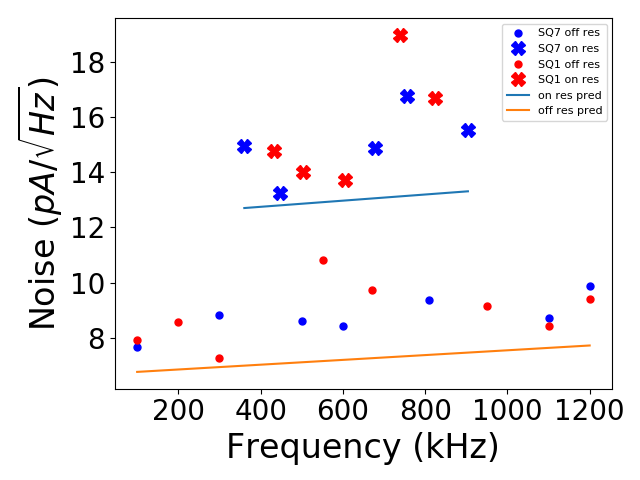
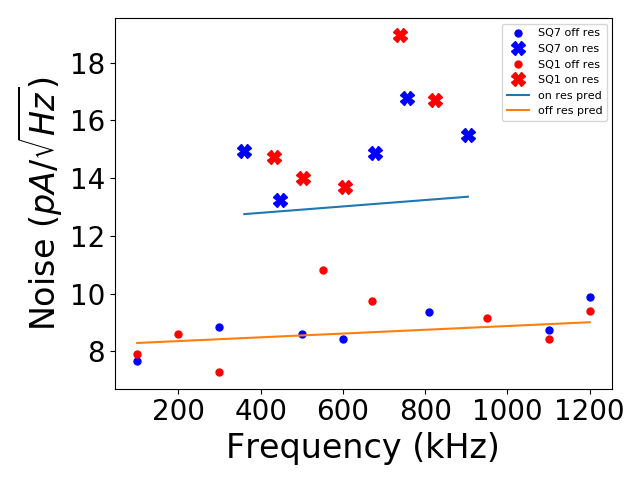
squid noise

diff --git a/characterization.tex b/characterization.tex
@@ -441,7 +441,7 @@ That is, we measured the warm electronic noise open loop (with the squids off), 
 
 With the \ac{SQUID}s off, we measured the open loop noise.
 %(no current bias, no flux bias, and no voltage offset) % no need to define off ... also, that's the voltage offset of ... the firs stage amplifier???
-This was a measure of the noise of the warm electronics up to the \ac{SQUID} controller first stage amplifier. 
+This was a measure of the noise of the warm electronics referred back to the input of the \ac{SQUID} controller first stage amplifier. 
 The theoretical open loop transfer function was 0.774 nV to 1 \ac{ADC} count. 
 The measured transfer function was a factor of 1.13 greater than the theoretical. 
 Figure~\ref{fig:dark_electronic_noise} is the measured open loop warm electronics noise for two \ac{SQUID}s in \ac{ETC} as a function of the demodulation frequency. 
@@ -485,23 +485,38 @@ The ampifier's feedback resistor value was known, typically $5~k\Omega$ or $10~k
 \begin{figure}[ht!]
 \begin{center}
 \includegraphics[height=2.5in]{figures/squid7_loopgain.png}
-\caption{We measured the \ac{SQUID} flux-locked loop gain. ???
+\caption{We measured the \ac{SQUID} flux-locked loop gain. we did voltage (?) open loop over voltage (?) at Rfeedback -1. as a function of frequency. ???
 \label{fig:squid_flux_locked_loopgain} }
 \end{center}
 \end{figure}
 
 \textcolor{red}{Include squid noise measured in EBEX at float in thesis? Later on in performance section? don't even mention here?}
+%\textcolor{red}{These predictions are from an era where the squid noise was 2.5 pA/rtHz. Later on in this 150-01 run is where we adjusted the prediction to measure the measurement and found the intrinsic squid noise was more like 4pA/rtHz (though franky used 3.5 pA/rtHz in the analysis code). So. You should: 
+%1. Include the plot of 2.5 and 4.0 pA/rtHz and explain why we changed the intrinsic noise "prediction" to match the measurement. 
+%2. Adjust the predictions of the squid noise to reflect this. Perhaps just remake them? but how do I know what the dfmux board settings were? find the date and hope the settings are there? or calculate the noise with 2.5 and subtract it (in quadrature) and add the noise with 4.0? }
+
+\textcolor{red}{Why is the on resonance noise higher than predicted? Do you want to find and include the 700mK squid noise data to say we don't know what's going on at 4.2~K, but meas/pred agree more at lower temperatures?}
 
 %The \ac{SQUID} noise could be measured, as was done in \ac{EBEX}, on a \ac{SQUID} not attached to a comb of bolometers (typically because of an open on one end of the microstrip) or it could be measured, as was done in \ac{ETC}, on a \ac{SQUID} with bolometers attached, but demodulating away from their resonant frequencies. 
-With the detectors at a temperature of 4.2~K and without providing carrier or nuller biases, we measured the noise of the warm electronics and the \ac{SQUID}s as a function of demodulation frequency, Figure~\ref{fig:dark_squid_noise}. 
-Demodulating at the bolometer resonant frequencies gives a measure of the 4.2~K bolometers' Johnson noise in addition to the electronic and \ac{SQUID} noise.  
+With the detectors at a temperature of 4.2~K, and without providing carrier or nuller biases, we measured the noise of the warm electronics and the \ac{SQUID}s as a function of demodulation frequency, Figure~\ref{fig:dark_squid_noise}. 
 
+
+Demodulating at the bolometer resonant frequencies gives a measure of the 4.2~K bolometers' Johnson noise in addition to the electronic and \ac{SQUID} noise. 
+This roughly doubles the noise. 
+
+\begin{figure}[ht!]
+\begin{center}
+\includegraphics[height=2.5in]{figures/adjusting_squid_noise.png}
+\caption{
+\label{fig:squid_flux_locked_loopgain} }
+\end{center}
+\end{figure}
 
 
 \begin{figure}[ht!]
 \begin{center}
 \includegraphics[height=2.5in]{figures/squid_plus_electronic_noise.png}
-\caption{Electronic and \ac{SQUID} noise in \ac{ETC} as function of demodulation frequency. At bolometer resonant frequencies, the Johnson noise term of the bolometer roughly doubles the noise.
+\caption{Electronic and \ac{SQUID} noise in \ac{ETC} as a function of demodulation frequency. Off resonance (o's) is just electronic and \ac{SQUID} noise, while on resonance (x's) includes the 4.2~K bolometer Johnson noise. 
 \label{fig:dark_squid_noise} }
 \end{center}
 \end{figure}
